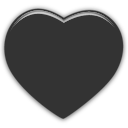
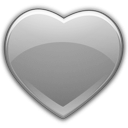
Display Vote Count
Display vote count and changes to Vote UI

diff --git a/res/js/loadGallery.min.js b/res/js/loadGallery.min.js
@@ -1,1 +1,1 @@
-$(document).ready(function(){if($.layout.name=="webkit"){$("body").append('<div id="caption" class="caption">Arrow keys to move,Space toggles magnify, V to vote</div>');var e=[self.pageXOffset||document.documentElement.scrollLeft||document.body.scrollLeft,self.pageYOffset||document.documentElement.scrollTop||document.body.scrollTop];var t=jQuery("html");t.data("scroll-position",e);t.data("previous-overflow",t.css("overflow"));t.css("overflow","hidden");window.scrollTo(e[0],e[1]);$.ajax({url:"res/scripts/getImage.php",type:"POST",data:{param:"Load",browser:$.layout.name},success:function(e){snowstack_init(JSON.parse(e))}})}else{var e;var n=0;var r=false;var s=0;var o=new Array;var u=new Array;var a='<div id="imgContainer">';var f='<div id="info">';var l='<div id="details">';var c='<div id="image">';var h=document.getElementById("container").offsetHeight;var p=document.documentElement.clientHeight;$.ajax({url:"res/scripts/getImage.php",type:"POST",data:{param:"Load",browser:"others",count:n},success:function(e){$ImageArray=JSON.parse(e);for(i=0;i<$ImageArray.length;i++){document.getElementById("container").innerHTML+=a+f+l+$ImageArray[i].title+'</div><div class = "vote" id ="vote-'+i+'"></div></div>'+c+'<a href="'+$ImageArray[i].zoom+'"><img src="'+$ImageArray[i].thumb+'" /></a></div></div>';o[s]=$ImageArray[i].image;u[s]=$ImageArray[i].user;s++}if($ImageArray.length<12)r=true}});$(window).scroll(function(){if($(window).scrollTop()+$(window).height()==$(document).height()&&!r){n+=12;$.ajax({url:"res/scripts/getImage.php",type:"POST",data:{param:"Load",browser:"others",count:n},success:function(e){$ImageArray=JSON.parse(e);if($ImageArray[$ImageArray.length-1].EOF=="true")r=true;for(i=0;i<$ImageArray.length;i++){document.getElementById("container").innerHTML+='<div id="imgContainer"><div id="info"><div id="details">'+$ImageArray[i].title+'</div><div class = "vote" id ="vote-'+i+'"></div></div><div id="image"><a href="'+$ImageArray[i].link+'"><img src="'+$ImageArray[i].thumb+'" /></a></div></div>';o[s]=$ImageArray[i].image;u[s]=$ImageArray[i].user;s++}}})}if($(window).scrollTop()<100){$("#scroll").css("display","none")}else if($(window).scrollTop()>400){$("#scroll").css("display","block")}})}$("#container").on("click",".vote",function(e){$.ajax({url:"res/scripts/getImage.php",type:"POST",data:{param:"Vote",user:u[e.target.id.split("-")[1]],image:o[e.target.id.split("-")[1]]},success:function(e){alert(e)}})})})
+$(document).ready(function(){if($.layout.name=="webkit"){$("body").append('<div id="caption" class="caption">Arrow keys to move,Space toggles magnify, V to vote</div>');var e=[self.pageXOffset||document.documentElement.scrollLeft||document.body.scrollLeft,self.pageYOffset||document.documentElement.scrollTop||document.body.scrollTop];var t=jQuery("html");t.data("scroll-position",e);t.data("previous-overflow",t.css("overflow"));t.css("overflow","hidden");window.scrollTo(e[0],e[1]);$.ajax({url:"res/scripts/getImage.php",type:"POST",data:{param:"Load",browser:$.layout.name},success:function(e){snowstack_init(JSON.parse(e))}})}else{var e;var n=0;var r=false;var s=0;var o=new Array;var u=new Array;var a='<div id="imgContainer">';var f='<div id="info">';var l='<div id="details">';var c='<div id="image">';var h=document.getElementById("container").offsetHeight;var p=document.documentElement.clientHeight;$.ajax({url:"res/scripts/getImage.php",type:"POST",data:{param:"Load",browser:"others",count:n},success:function(e){$ImageArray=JSON.parse(e);for(i=0;i<$ImageArray.length;i++){document.getElementById("container").innerHTML+=a+f+l+$ImageArray[i].title+'</div><div id="voteCount">'+$ImageArray[i].vote+'</div><div class = "vote" id ="vote-'+i+'"></div></div>'+c+'<a href="'+$ImageArray[i].zoom+'"><img src="'+$ImageArray[i].thumb+'" /></a></div></div>';o[s]=$ImageArray[i].image;u[s]=$ImageArray[i].user;s++}if($ImageArray.length<12)r=true}});$(window).scroll(function(){if($(window).scrollTop()+$(window).height()==$(document).height()&&!r){n+=12;$.ajax({url:"res/scripts/getImage.php",type:"POST",data:{param:"Load",browser:"others",count:n},success:function(e){$ImageArray=JSON.parse(e);if($ImageArray[$ImageArray.length-1].EOF=="true")r=true;for(i=0;i<$ImageArray.length;i++){document.getElementById("container").innerHTML+=a+f+l+$ImageArray[i].title+'</div><div id="voteCount">'+$ImageArray[i].vote+'</div><div class = "vote" id ="vote-'+i+'"></div></div>'+c+'<a href="'+$ImageArray[i].zoom+'"><img src="'+$ImageArray[i].thumb+'" /></a></div></div>';o[s]=$ImageArray[i].image;u[s]=$ImageArray[i].user;s++}}})}if($(window).scrollTop()<100){$("#scroll").css("display","none")}else if($(window).scrollTop()>400){$("#scroll").css("display","block")}})}$("#container").on("click",".vote",function(e){$.ajax({url:"res/scripts/getImage.php",type:"POST",data:{param:"Vote",user:u[e.target.id.split("-")[1]],image:o[e.target.id.split("-")[1]]},success:function(e){alert(e)}})})})

diff --git a/res/js/loadGallery.js b/res/js/loadGallery.js
@@ -16,7 +16,7 @@ $(document).ready(function()
       	html.data('previous-overflow', html.css('overflow'));
       	html.css('overflow', 'hidden');
       	window.scrollTo(scrollPosition[0], scrollPosition[1]);
-		
+
 		//Retrieve Images from Database
 		$.ajax({
 				url: 'res/scripts/getImage.php', 
@@ -62,7 +62,7 @@ $(document).ready(function()
 			    	$ImageArray = JSON.parse(result);
 			    	for(i=0; i<$ImageArray.length; i++)
 			    	{
-	                    document.getElementById("container").innerHTML += divImgContainer+divInfo+divDetails+$ImageArray[i].title+'</div><div class = "vote" id ="vote-'+i+'"></div></div>'+divImage+'<a href="'+$ImageArray[i].zoom +'"><img src="'+$ImageArray[i].thumb+'" /></a></div></div>';
+	                    document.getElementById("container").innerHTML += divImgContainer+divInfo+divDetails+$ImageArray[i].title+'</div><div id="voteCount">'+$ImageArray[i].vote+'</div><div class = "vote" id ="vote-'+i+'"></div></div>'+divImage+'<a href="'+$ImageArray[i].zoom +'"><img src="'+$ImageArray[i].thumb+'" /></a></div></div>';
 	                    ImageArrayComplete[ImageCounter] = $ImageArray[i].image;
 	                    UserArrayComplete[ImageCounter]  = $ImageArray[i].user;
 	                    ImageCounter++;
@@ -89,7 +89,7 @@ $(document).ready(function()
 				    	if($ImageArray[$ImageArray.length-1].EOF == "true") endOfFile = true;
 				    	for(i=0; i<$ImageArray.length; i++)
 			    		{
-	                    	document.getElementById("container").innerHTML += '<div id="imgContainer"><div id="info"><div id="details">'+$ImageArray[i].title+'</div><div class = "vote" id ="vote-'+i+'"></div></div><div id="image"><a href="'+$ImageArray[i].link +'"><img src="'+$ImageArray[i].thumb+'" /></a></div></div>';
+	                    	document.getElementById("container").innerHTML += divImgContainer+divInfo+divDetails+$ImageArray[i].title+'</div><div id="voteCount">'+$ImageArray[i].vote+'</div><div class = "vote" id ="vote-'+i+'"></div></div>'+divImage+'<a href="'+$ImageArray[i].zoom +'"><img src="'+$ImageArray[i].thumb+'" /></a></div></div>';
 	                    	ImageArrayComplete[ImageCounter] = $ImageArray[i].image;
 	                    	UserArrayComplete[ImageCounter]  = $ImageArray[i].user;
 	                    	ImageCounter++;

diff --git a/res/css/style.css b/res/css/style.css
@@ -92,7 +92,7 @@ img{
 	opacity    : 0.9;
 }
 #details{
-	width      : 100%;
+	width      : 70%;
 	height     : 100%;
 	color      : #fff;
 	text-align : left;
@@ -102,14 +102,26 @@ img{
 .vote{
 	width      : 15%;
 	height     : 100%;
-	top        : 5%;
-	left       : 85%;
-	background-image: url(../img/like_select.png);
+	top        : 10%;
+	left       : 75%;
+	background-image: url(../img/like.png);
 	position   : absolute;
 	background-repeat: no-repeat;
-	background-size: 100%;
+	background-size: 80%;
 	z-index	   : 2;
 
+}
+.vote:hover{
+	background-image: url(../img/like_select.png);
+}
+#voteCount{
+	width       : 15%;
+	top 		: 20%;
+	left 		: 85%;
+	color 		: #fff;
+	z-index 	: 3;
+	position 	: absolute;
+	text-shadow :0 0 2px #FFFFFF;
 }
 #scroll{
 	position   : fixed;

diff --git a/res/scripts/getImage.php b/res/scripts/getImage.php
@@ -67,7 +67,7 @@ function RetrieveFromDB($ContestID, $ContestFolder, $ThumbName)
    
     mysql_select_db($mySqlTable, $con);
 
-    $sql = "SELECT  `IMGE_ID` ,  `USR_ID` ,  `IMGE_CPTION` FROM  `IMAGES` WHERE  `CNTST_ID` = $ContestID";
+    $sql    = "SELECT  `IMGE_ID` ,  `USR_ID` ,  `IMGE_CPTION` FROM  `IMAGES` WHERE  `CNTST_ID` = $ContestID";
     $result = mysql_query($sql);
 
     $JsonArray = array();
@@ -77,6 +77,7 @@ function RetrieveFromDB($ContestID, $ContestFolder, $ThumbName)
         $UserID         = $row['USR_ID'];
         $ImageCaption   = $row['IMGE_CPTION'];
 
+        
         $FullImagePath  = $ContestFolder.'/'.$ContestID.'/'.$UserID.'/'.$ImageID.'.jpg';
         $ThumbImagePath = $ContestFolder.'/'.$ContestID.'/'.$UserID.'/'.$ThumbName.$ImageID.'.jpg';
 
@@ -96,6 +97,7 @@ function RetrieveFromDB($ContestID, $ContestFolder, $ThumbName)
 //Retrieven data and convert to json array
 function RetrieveFromDBWithCount($ContestID, $ContestFolder, $ThumbName, $count)
 {
+    $TotalVotes = RetrieveVotesFromDB();
     require("config.php");
     $con = mysql_connect($mySqlServer, $mySqlUserName, $mySqlPass);
     if (!$con) die('Could not connect: ' . mysql_error());
@@ -113,17 +115,17 @@ function RetrieveFromDBWithCount($ContestID, $ContestFolder, $ThumbName, $count)
 
     $sql = "SELECT  `IMGE_ID` ,  `USR_ID` ,  `IMGE_CPTION` FROM  `IMAGES` WHERE  `CNTST_ID` = $ContestID LIMIT $count, $final";
     $result = mysql_query($sql);
-
+    
     $JsonArray = array();
     while($row = mysql_fetch_array($result))
     {
         $ImageID        = $row['IMGE_ID'];
         $UserID         = $row['USR_ID'];
         $ImageCaption   = $row['IMGE_CPTION'];
-
+        $VoteCount      = getVotes($ImageID, $TotalVotes);
         $FullImagePath  = $ContestFolder.'/'.$ContestID.'/'.$UserID.'/'.$ImageID.'.jpg';
         $ThumbImagePath = $ContestFolder.'/'.$ContestID.'/'.$UserID.'/'.$ThumbName.$ImageID.'.jpg';
-
+        
         $JsonFile       = array(
                                 "title" => $ImageCaption,
                                 "thumb" => $ThumbImagePath,
@@ -131,6 +133,7 @@ function RetrieveFromDBWithCount($ContestID, $ContestFolder, $ThumbName, $count)
                                 "zoom"  => $FullImagePath,
                                 "user"  => $UserID,
                                 "image" => $ImageID,
+                                "vote"  => $VoteCount,
                                 "EOF"   => $EOF
                             );
         array_push($JsonArray,$JsonFile);
@@ -179,5 +182,32 @@ function UpdateVoteDB($ImageID, $ImageOwnerID, $UserID)
     mysql_close($con);
     return true;
 
+}
+function RetrieveVotesFromDB()
+{
+    require("config.php");
+    $con = mysql_connect($mySqlServer, $mySqlUserName, $mySqlPass);
+    if (!$con) die('Could not connect: ' . mysql_error());
+   
+    mysql_select_db($mySqlTable, $con);
+
+    $sql = "SELECT  `IMAGE_ID` , COUNT( * ) AS  `VOTES` FROM VOTES GROUP BY  `IMAGE_ID`";
+    $result = mysql_query($sql);
+    $TotalVotes = array();
+    while($row = mysql_fetch_array($result))
+    {
+        array_push($TotalVotes, $row['IMAGE_ID'], $row['VOTES']);
+    }
+    mysql_close($con);
+    return($TotalVotes);
+}
+function getVotes($ImageID,$TotalVotes)
+{
+    for($i = 0; $i<count($TotalVotes); $i++)
+    {
+        if($TotalVotes[$i] == $ImageID)
+            return($TotalVotes[$i+1]);
+    }
+    return 0;
 }
 ?>
